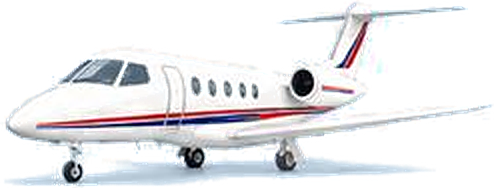
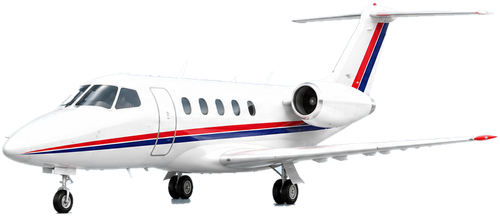
feat: imágenes nuevas de tipos de aeronave (renders del socio, recortados con transparencia)

Changed region(s): [[0.0, 0.0, 1.0, 1.0], [0.0304, 0.5319, 0.0607, 0.5851]]

diff --git a/components/ui/AircraftTypesSection.tsx b/components/ui/AircraftTypesSection.tsx
@@ -7,56 +7,56 @@ import { DisplayTitle } from "@/components/ui/home/DisplayTitle";
 // más chicos que la primera versión. Correspondencia con AircraftCategory confirmada por el socio (10/10):
 // Monomotor = MP + MT, Bimotor = BP + BT, Experimental / LSA = E, Agrícola = A,
 // Helicóptero = H, Proyecto = PR, Otros = S/C. VA-149 (17/10): orden y nombre como en lib/aircraft-categories.ts.
+// 27/10: renders nuevos del socio, todos a la misma escala (Proyecto ya no se achica); se generan con
+// scripts/process-aircraft-types.mjs.
 const TYPES = [
   {
     name: "Monomotor",
     image: "monomotor",
-    width: 484,
-    height: 196,
+    width: 500,
+    height: 171,
     categories: ["MP", "MT"],
   },
   {
     name: "Bimotor",
     image: "bimotor",
-    width: 484,
-    height: 212,
+    width: 500,
+    height: 198,
     categories: ["BP", "BT"],
   },
   {
     name: "Experimental / LSA",
     image: "experimental-lsa",
-    width: 494,
-    height: 176,
+    width: 500,
+    height: 214,
     categories: ["E"],
   },
   {
     name: "Agrícola",
     image: "agricola",
-    width: 496,
-    height: 180,
+    width: 500,
+    height: 177,
     categories: ["A"],
   },
   {
     name: "Helicóptero",
     image: "helicoptero",
-    width: 502,
-    height: 224,
+    width: 500,
+    height: 234,
     categories: ["H"],
   },
   {
     name: "Proyecto",
     image: "proyecto",
-    width: 486,
-    height: 238,
+    width: 500,
+    height: 182,
     categories: ["PR"],
-    // 26/10 (socio): un 15 % más chica que las demás.
-    scale: "scale-[0.85]",
   },
   {
     name: "Otros",
     image: "otros",
-    width: 494,
-    height: 188,
+    width: 500,
+    height: 216,
     categories: ["S/C"],
     // Ajustado (10/10): los turbohélices tienen categoría propia (MT y BT).
   },
@@ -91,7 +91,7 @@ export function AircraftTypesSection({ counts }: { counts: Record<string, number
                       fill
                       // En celular la caja mide ~35vw (85% de media columna): así baja la de 256 px y no la de 384.
                       sizes="(min-width: 1280px) 250px, (min-width: 1024px) 20vw, (min-width: 768px) 27vw, 35vw"
-                      className={`object-contain object-bottom origin-bottom ${"scale" in type ? type.scale : ""}`}
+                      className="object-contain object-bottom"
                     />
                   </div>
                   <h3 className="mt-3 text-[0.95rem] leading-snug font-bold text-[#00205B] decoration-[#D62828] decoration-2 underline-offset-4 group-hover:underline group-focus-visible:underline">

diff --git a/docs/REGISTRO_DE_CAMBIOS.md b/docs/REGISTRO_DE_CAMBIOS.md
@@ -329,6 +329,8 @@ Estilo elegido por el socio después de varias rondas de maquetas. Las reglas qu
 | Arreglos: limpiar filtros, sugeridas en carrusel, precio del detalle, scroll horizontal en detalles | `dcbae73` | `/aircraft`, detalles |
 | Servicios rediseñado | `636c5bd` | `/services` |
 | VA-122: textos de Nosotros | `cdb1bdd`, `109bd6c` | `/about` |
+| Cuenta completa obligatoria (27/10): aceptar términos y verificar el email también al entrar con Google o Facebook. Migración `20261027120000_terminos_aceptados` | `0b7eda6` | `/onboarding/completar` |
+| Imágenes nuevas de "Explorá por tipo de aeronave" (27/10): renders del socio recortados con `scripts/process-aircraft-types.mjs` (originales en `assets/originals/aircraft-types`); Proyecto ya no se achica | ver git log | `/`, sección de tipos |
 
 ## Lote del 18/10 (VA-152 a VA-164)
 
